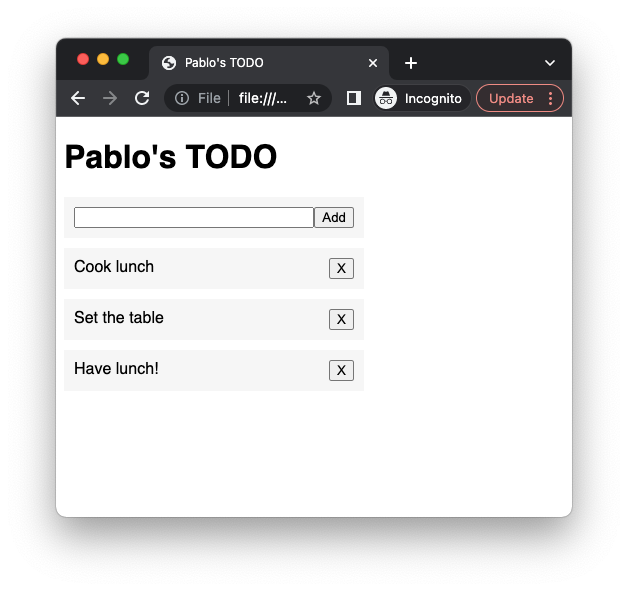
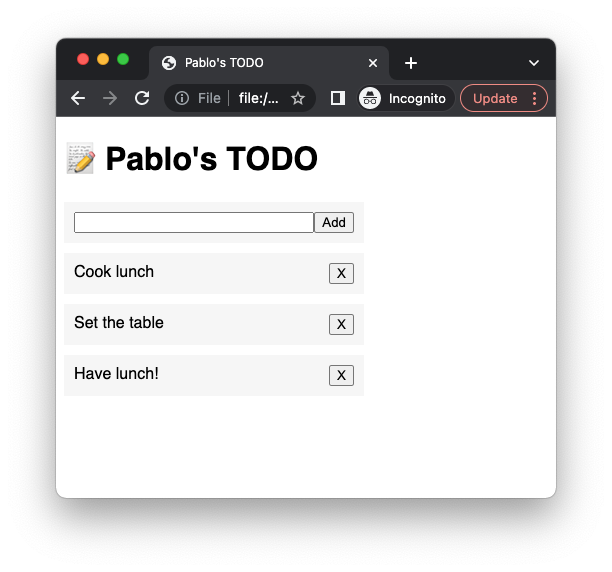
Emojis 😀

diff --git a/index.html b/index.html
@@ -45,7 +45,7 @@
   </head>
   <body>
     <div class="container">
-      <h1>Pablo's TODO</h1>
+      <h1>📝 Pablo's TODO</h1>
       <form id="todoForm">
         <input type="text" id="newTodoInput"/>
         <button>Add</button>

diff --git a/README.md b/README.md
@@ -1,5 +1,5 @@
-# Pablo's TODO
+# 📝 Pablo's TODO
 
-A simple implementation of a TODO list using Vanilla JS.
+A simple implementation of a TODO list using Vanilla JS 👇
 
 ![Screenshot of Pablo's TODO](https://github.com/alonsogarciapablo/todo-list-app-vanilla-js/blob/main/screenshot.png?raw=true)
